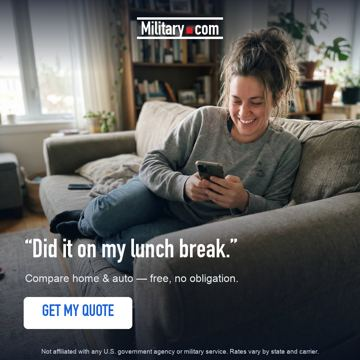
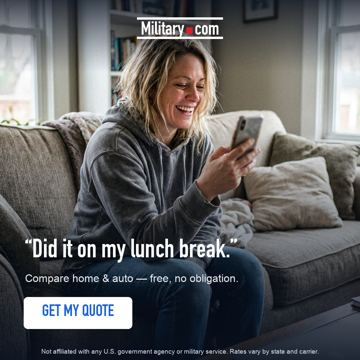
Military.com: add 6 audience-character creatives (USAA/Geico-style lifestyle)
New photo concepts at 1:1/4:5/9:16 — military family + children, newlywed,
military humor, member + dog, generational, just-joined. Tasteful everyday
service dress permitted per client direction; no rank insignia/patches/flags/
seals/carrier logos/%-claims. Gallery now 52 concepts / 152 assets.

diff --git a/clients/military-com/ad-library.html b/clients/military-com/ad-library.html
@@ -30,7 +30,7 @@ a{color:inherit;}
 <header>
   <div class="eyebrow">Creative Review · Go To War Strategy</div>
   <h1>Military.com — June Creative</h1>
-  <div class="sub">46 concepts · 134 assets · 1 video · 1:1 / 4:5 / 9:16 · brand templates + editorial photo + UGC · click any shot for full size</div>
+  <div class="sub">52 concepts · 152 assets · 1 video · 1:1 / 4:5 / 9:16 · brand templates + editorial photo + UGC · click any shot for full size</div>
 </header>
 <h2 class="grp">Brand Templates <span>20 concepts</span></h2>
 <div class="grid">
@@ -55,18 +55,24 @@ a{color:inherit;}
 <div class="card"><div class="hd"><span class="id">two_cars_one_quote</span><span class="meta"><span class="pill">cream</span> <span class="pill">Auto</span> <span class="pill">GET MY QUOTE</span></span></div><div class="hl">Two cars. one lower bill.</div><div class="shots"><figure class="shot 1x1"><a href="ad-library/templates/two_cars_one_quote_1x1.jpg" target="_blank"><img src="ad-library/templates/thumbs/two_cars_one_quote_1x1.jpg" loading="lazy" decoding="async" alt="two_cars_one_quote 1:1"/></a><figcaption>1:1</figcaption></figure><figure class="shot 4x5"><a href="ad-library/templates/two_cars_one_quote_4x5.jpg" target="_blank"><img src="ad-library/templates/thumbs/two_cars_one_quote_4x5.jpg" loading="lazy" decoding="async" alt="two_cars_one_quote 4:5"/></a><figcaption>4:5</figcaption></figure><figure class="shot 9x16"><a href="ad-library/templates/two_cars_one_quote_9x16.jpg" target="_blank"><img src="ad-library/templates/thumbs/two_cars_one_quote_9x16.jpg" loading="lazy" decoding="async" alt="two_cars_one_quote 9:16"/></a><figcaption>9:16</figcaption></figure></div></div>
 <div class="card"><div class="hd"><span class="id">va_loan_new_home</span><span class="meta"><span class="pill">blue</span> <span class="pill">Home</span> <span class="pill">GET MY QUOTE</span></span></div><div class="hl">Closing soon? lock your coverage.</div><div class="shots"><figure class="shot 1x1"><a href="ad-library/templates/va_loan_new_home_1x1.jpg" target="_blank"><img src="ad-library/templates/thumbs/va_loan_new_home_1x1.jpg" loading="lazy" decoding="async" alt="va_loan_new_home 1:1"/></a><figcaption>1:1</figcaption></figure><figure class="shot 4x5"><a href="ad-library/templates/va_loan_new_home_4x5.jpg" target="_blank"><img src="ad-library/templates/thumbs/va_loan_new_home_4x5.jpg" loading="lazy" decoding="async" alt="va_loan_new_home 4:5"/></a><figcaption>4:5</figcaption></figure><figure class="shot 9x16"><a href="ad-library/templates/va_loan_new_home_9x16.jpg" target="_blank"><img src="ad-library/templates/thumbs/va_loan_new_home_9x16.jpg" loading="lazy" decoding="async" alt="va_loan_new_home 9:16"/></a><figcaption>9:16</figcaption></figure></div></div>
 </div>
-<h2 class="grp">Photo / Editorial <span>14 concepts</span></h2>
+<h2 class="grp">Photo / Editorial <span>20 concepts</span></h2>
 <div class="grid">
 <div class="card"><div class="hd"><span class="id">deployment_return_keys</span><span class="meta"><span class="pill">navy</span> <span class="pill">Auto</span> <span class="pill">START YOUR COMPARISON</span></span></div><div class="hl">Back home. Time to fix what&#x27;s on autopay.</div><div class="shots"><figure class="shot 1x1"><a href="ad-library/photo/deployment_return_keys_1x1.jpg" target="_blank"><img src="ad-library/photo/thumbs/deployment_return_keys_1x1.jpg" loading="lazy" decoding="async" alt="deployment_return_keys 1:1"/></a><figcaption>1:1</figcaption></figure><figure class="shot 4x5"><a href="ad-library/photo/deployment_return_keys_4x5.jpg" target="_blank"><img src="ad-library/photo/thumbs/deployment_return_keys_4x5.jpg" loading="lazy" decoding="async" alt="deployment_return_keys 4:5"/></a><figcaption>4:5</figcaption></figure><figure class="shot 9x16"><a href="ad-library/photo/deployment_return_keys_9x16.jpg" target="_blank"><img src="ad-library/photo/thumbs/deployment_return_keys_9x16.jpg" loading="lazy" decoding="async" alt="deployment_return_keys 9:16"/></a><figcaption>9:16</figcaption></figure></div></div>
 <div class="card"><div class="hd"><span class="id">drive_confidence</span><span class="meta"><span class="pill">navy</span> <span class="pill">Auto</span> <span class="pill">GET MY QUOTE</span></span></div><div class="hl">Drive with confidence</div><div class="shots"><figure class="shot 1x1"><a href="ad-library/photo/drive_confidence_1x1.jpg" target="_blank"><img src="ad-library/photo/thumbs/drive_confidence_1x1.jpg" loading="lazy" decoding="async" alt="drive_confidence 1:1"/></a><figcaption>1:1</figcaption></figure></div></div>
 <div class="card"><div class="hd"><span class="id">first_home</span><span class="meta"><span class="pill">navy</span> <span class="pill">Home</span> <span class="pill">SEE YOUR RATE</span></span></div><div class="hl">Used your VA loan? Insure it for less.</div><div class="shots"><figure class="shot 1x1"><a href="ad-library/photo/first_home_1x1.jpg" target="_blank"><img src="ad-library/photo/thumbs/first_home_1x1.jpg" loading="lazy" decoding="async" alt="first_home 1:1"/></a><figcaption>1:1</figcaption></figure><figure class="shot 4x5"><a href="ad-library/photo/first_home_4x5.jpg" target="_blank"><img src="ad-library/photo/thumbs/first_home_4x5.jpg" loading="lazy" decoding="async" alt="first_home 4:5"/></a><figcaption>4:5</figcaption></figure><figure class="shot 9x16"><a href="ad-library/photo/first_home_9x16.jpg" target="_blank"><img src="ad-library/photo/thumbs/first_home_9x16.jpg" loading="lazy" decoding="async" alt="first_home 9:16"/></a><figcaption>9:16</figcaption></figure></div></div>
+<div class="card"><div class="hd"><span class="id">generational_military</span><span class="meta"><span class="pill">navy</span> <span class="pill">Home+Auto</span> <span class="pill">COMPARE FREE</span></span></div><div class="hl">Service runs in the family. Smart choices can too.</div><div class="shots"><figure class="shot 1x1"><a href="ad-library/photo/generational_military_1x1.jpg" target="_blank"><img src="ad-library/photo/thumbs/generational_military_1x1.jpg" loading="lazy" decoding="async" alt="generational_military 1:1"/></a><figcaption>1:1</figcaption></figure><figure class="shot 4x5"><a href="ad-library/photo/generational_military_4x5.jpg" target="_blank"><img src="ad-library/photo/thumbs/generational_military_4x5.jpg" loading="lazy" decoding="async" alt="generational_military 4:5"/></a><figcaption>4:5</figcaption></figure><figure class="shot 9x16"><a href="ad-library/photo/generational_military_9x16.jpg" target="_blank"><img src="ad-library/photo/thumbs/generational_military_9x16.jpg" loading="lazy" decoding="async" alt="generational_military 9:16"/></a><figcaption>9:16</figcaption></figure></div></div>
+<div class="card"><div class="hd"><span class="id">just_joined_military</span><span class="meta"><span class="pill">navy</span> <span class="pill">Auto</span> <span class="pill">SEE YOUR RATE</span></span></div><div class="hl">New mission. New car. Smarter coverage.</div><div class="shots"><figure class="shot 1x1"><a href="ad-library/photo/just_joined_military_1x1.jpg" target="_blank"><img src="ad-library/photo/thumbs/just_joined_military_1x1.jpg" loading="lazy" decoding="async" alt="just_joined_military 1:1"/></a><figcaption>1:1</figcaption></figure><figure class="shot 4x5"><a href="ad-library/photo/just_joined_military_4x5.jpg" target="_blank"><img src="ad-library/photo/thumbs/just_joined_military_4x5.jpg" loading="lazy" decoding="async" alt="just_joined_military 4:5"/></a><figcaption>4:5</figcaption></figure><figure class="shot 9x16"><a href="ad-library/photo/just_joined_military_9x16.jpg" target="_blank"><img src="ad-library/photo/thumbs/just_joined_military_9x16.jpg" loading="lazy" decoding="async" alt="just_joined_military 9:16"/></a><figcaption>9:16</figcaption></figure></div></div>
 <div class="card"><div class="hd"><span class="id">lifestyle_backyard_grill</span><span class="meta"><span class="pill">navy</span> <span class="pill">Home</span> <span class="pill">SEE YOUR RATE</span></span></div><div class="hl">You built this. Protect it for less.</div><div class="shots"><figure class="shot 1x1"><a href="ad-library/photo/lifestyle_backyard_grill_1x1.jpg" target="_blank"><img src="ad-library/photo/thumbs/lifestyle_backyard_grill_1x1.jpg" loading="lazy" decoding="async" alt="lifestyle_backyard_grill 1:1"/></a><figcaption>1:1</figcaption></figure><figure class="shot 4x5"><a href="ad-library/photo/lifestyle_backyard_grill_4x5.jpg" target="_blank"><img src="ad-library/photo/thumbs/lifestyle_backyard_grill_4x5.jpg" loading="lazy" decoding="async" alt="lifestyle_backyard_grill 4:5"/></a><figcaption>4:5</figcaption></figure><figure class="shot 9x16"><a href="ad-library/photo/lifestyle_backyard_grill_9x16.jpg" target="_blank"><img src="ad-library/photo/thumbs/lifestyle_backyard_grill_9x16.jpg" loading="lazy" decoding="async" alt="lifestyle_backyard_grill 9:16"/></a><figcaption>9:16</figcaption></figure></div></div>
 <div class="card"><div class="hd"><span class="id">lifestyle_dog_roadtrip_truck</span><span class="meta"><span class="pill">navy</span> <span class="pill">Auto</span> <span class="pill">CHECK YOUR RATE</span></span></div><div class="hl">New orders. New rate to match.</div><div class="shots"><figure class="shot 1x1"><a href="ad-library/photo/lifestyle_dog_roadtrip_truck_1x1.jpg" target="_blank"><img src="ad-library/photo/thumbs/lifestyle_dog_roadtrip_truck_1x1.jpg" loading="lazy" decoding="async" alt="lifestyle_dog_roadtrip_truck 1:1"/></a><figcaption>1:1</figcaption></figure><figure class="shot 4x5"><a href="ad-library/photo/lifestyle_dog_roadtrip_truck_4x5.jpg" target="_blank"><img src="ad-library/photo/thumbs/lifestyle_dog_roadtrip_truck_4x5.jpg" loading="lazy" decoding="async" alt="lifestyle_dog_roadtrip_truck 4:5"/></a><figcaption>4:5</figcaption></figure><figure class="shot 9x16"><a href="ad-library/photo/lifestyle_dog_roadtrip_truck_9x16.jpg" target="_blank"><img src="ad-library/photo/thumbs/lifestyle_dog_roadtrip_truck_9x16.jpg" loading="lazy" decoding="async" alt="lifestyle_dog_roadtrip_truck 9:16"/></a><figcaption>9:16</figcaption></figure></div></div>
 <div class="card"><div class="hd"><span class="id">lifestyle_first_apartment_renter</span><span class="meta"><span class="pill">navy</span> <span class="pill">Renters</span> <span class="pill">SEE YOUR RATE</span></span></div><div class="hl">First place off base? Cover it for less.</div><div class="shots"><figure class="shot 1x1"><a href="ad-library/photo/lifestyle_first_apartment_renter_1x1.jpg" target="_blank"><img src="ad-library/photo/thumbs/lifestyle_first_apartment_renter_1x1.jpg" loading="lazy" decoding="async" alt="lifestyle_first_apartment_renter 1:1"/></a><figcaption>1:1</figcaption></figure><figure class="shot 4x5"><a href="ad-library/photo/lifestyle_first_apartment_renter_4x5.jpg" target="_blank"><img src="ad-library/photo/thumbs/lifestyle_first_apartment_renter_4x5.jpg" loading="lazy" decoding="async" alt="lifestyle_first_apartment_renter 4:5"/></a><figcaption>4:5</figcaption></figure><figure class="shot 9x16"><a href="ad-library/photo/lifestyle_first_apartment_renter_9x16.jpg" target="_blank"><img src="ad-library/photo/thumbs/lifestyle_first_apartment_renter_9x16.jpg" loading="lazy" decoding="async" alt="lifestyle_first_apartment_renter 9:16"/></a><figcaption>9:16</figcaption></figure></div></div>
 <div class="card"><div class="hd"><span class="id">lifestyle_motorcycle_garage</span><span class="meta"><span class="pill">navy</span> <span class="pill">Motorcycle</span> <span class="pill">GET MY QUOTE</span></span></div><div class="hl">Ride season&#x27;s here. Re-shop the bike too.</div><div class="shots"><figure class="shot 1x1"><a href="ad-library/photo/lifestyle_motorcycle_garage_1x1.jpg" target="_blank"><img src="ad-library/photo/thumbs/lifestyle_motorcycle_garage_1x1.jpg" loading="lazy" decoding="async" alt="lifestyle_motorcycle_garage 1:1"/></a><figcaption>1:1</figcaption></figure><figure class="shot 4x5"><a href="ad-library/photo/lifestyle_motorcycle_garage_4x5.jpg" target="_blank"><img src="ad-library/photo/thumbs/lifestyle_motorcycle_garage_4x5.jpg" loading="lazy" decoding="async" alt="lifestyle_motorcycle_garage 4:5"/></a><figcaption>4:5</figcaption></figure><figure class="shot 9x16"><a href="ad-library/photo/lifestyle_motorcycle_garage_9x16.jpg" target="_blank"><img src="ad-library/photo/thumbs/lifestyle_motorcycle_garage_9x16.jpg" loading="lazy" decoding="async" alt="lifestyle_motorcycle_garage 9:16"/></a><figcaption>9:16</figcaption></figure></div></div>
 <div class="card"><div class="hd"><span class="id">lifestyle_porch_coffee_morning</span><span class="meta"><span class="pill">navy</span> <span class="pill">Home+Auto</span> <span class="pill">GET MY QUOTE</span></span></div><div class="hl">Five minutes, before the kids woke up.</div><div class="shots"><figure class="shot 1x1"><a href="ad-library/photo/lifestyle_porch_coffee_morning_1x1.jpg" target="_blank"><img src="ad-library/photo/thumbs/lifestyle_porch_coffee_morning_1x1.jpg" loading="lazy" decoding="async" alt="lifestyle_porch_coffee_morning 1:1"/></a><figcaption>1:1</figcaption></figure><figure class="shot 4x5"><a href="ad-library/photo/lifestyle_porch_coffee_morning_4x5.jpg" target="_blank"><img src="ad-library/photo/thumbs/lifestyle_porch_coffee_morning_4x5.jpg" loading="lazy" decoding="async" alt="lifestyle_porch_coffee_morning 4:5"/></a><figcaption>4:5</figcaption></figure><figure class="shot 9x16"><a href="ad-library/photo/lifestyle_porch_coffee_morning_9x16.jpg" target="_blank"><img src="ad-library/photo/thumbs/lifestyle_porch_coffee_morning_9x16.jpg" loading="lazy" decoding="async" alt="lifestyle_porch_coffee_morning 9:16"/></a><figcaption>9:16</figcaption></figure></div></div>
 <div class="card"><div class="hd"><span class="id">loyalty_tax_porch_couple</span><span class="meta"><span class="pill">navy</span> <span class="pill">Home+Auto</span> <span class="pill">RUN THE NUMBERS</span></span></div><div class="hl">Same insurer 10 years? You&#x27;re paying the loyalty tax.</div><div class="shots"><figure class="shot 1x1"><a href="ad-library/photo/loyalty_tax_porch_couple_1x1.jpg" target="_blank"><img src="ad-library/photo/thumbs/loyalty_tax_porch_couple_1x1.jpg" loading="lazy" decoding="async" alt="loyalty_tax_porch_couple 1:1"/></a><figcaption>1:1</figcaption></figure><figure class="shot 4x5"><a href="ad-library/photo/loyalty_tax_porch_couple_4x5.jpg" target="_blank"><img src="ad-library/photo/thumbs/loyalty_tax_porch_couple_4x5.jpg" loading="lazy" decoding="async" alt="loyalty_tax_porch_couple 4:5"/></a><figcaption>4:5</figcaption></figure><figure class="shot 9x16"><a href="ad-library/photo/loyalty_tax_porch_couple_9x16.jpg" target="_blank"><img src="ad-library/photo/thumbs/loyalty_tax_porch_couple_9x16.jpg" loading="lazy" decoding="async" alt="loyalty_tax_porch_couple 9:16"/></a><figcaption>9:16</figcaption></figure></div></div>
+<div class="card"><div class="hd"><span class="id">military_dog</span><span class="meta"><span class="pill">navy</span> <span class="pill">Auto</span> <span class="pill">CHECK YOUR RATE</span></span></div><div class="hl">Loyal to your mission. Loyal to your savings.</div><div class="shots"><figure class="shot 1x1"><a href="ad-library/photo/military_dog_1x1.jpg" target="_blank"><img src="ad-library/photo/thumbs/military_dog_1x1.jpg" loading="lazy" decoding="async" alt="military_dog 1:1"/></a><figcaption>1:1</figcaption></figure><figure class="shot 4x5"><a href="ad-library/photo/military_dog_4x5.jpg" target="_blank"><img src="ad-library/photo/thumbs/military_dog_4x5.jpg" loading="lazy" decoding="async" alt="military_dog 4:5"/></a><figcaption>4:5</figcaption></figure><figure class="shot 9x16"><a href="ad-library/photo/military_dog_9x16.jpg" target="_blank"><img src="ad-library/photo/thumbs/military_dog_9x16.jpg" loading="lazy" decoding="async" alt="military_dog 9:16"/></a><figcaption>9:16</figcaption></figure></div></div>
+<div class="card"><div class="hd"><span class="id">military_family_children</span><span class="meta"><span class="pill">navy</span> <span class="pill">Auto</span> <span class="pill">SEE YOUR RATE</span></span></div><div class="hl">You served. Now you can save.</div><div class="shots"><figure class="shot 1x1"><a href="ad-library/photo/military_family_children_1x1.jpg" target="_blank"><img src="ad-library/photo/thumbs/military_family_children_1x1.jpg" loading="lazy" decoding="async" alt="military_family_children 1:1"/></a><figcaption>1:1</figcaption></figure><figure class="shot 4x5"><a href="ad-library/photo/military_family_children_4x5.jpg" target="_blank"><img src="ad-library/photo/thumbs/military_family_children_4x5.jpg" loading="lazy" decoding="async" alt="military_family_children 4:5"/></a><figcaption>4:5</figcaption></figure><figure class="shot 9x16"><a href="ad-library/photo/military_family_children_9x16.jpg" target="_blank"><img src="ad-library/photo/thumbs/military_family_children_9x16.jpg" loading="lazy" decoding="async" alt="military_family_children 9:16"/></a><figcaption>9:16</figcaption></figure></div></div>
+<div class="card"><div class="hd"><span class="id">military_humor</span><span class="meta"><span class="pill">navy</span> <span class="pill">Auto</span> <span class="pill">RUN THE NUMBERS</span></span></div><div class="hl">You triple-check your gear. Why not your insurance?</div><div class="shots"><figure class="shot 1x1"><a href="ad-library/photo/military_humor_1x1.jpg" target="_blank"><img src="ad-library/photo/thumbs/military_humor_1x1.jpg" loading="lazy" decoding="async" alt="military_humor 1:1"/></a><figcaption>1:1</figcaption></figure><figure class="shot 4x5"><a href="ad-library/photo/military_humor_4x5.jpg" target="_blank"><img src="ad-library/photo/thumbs/military_humor_4x5.jpg" loading="lazy" decoding="async" alt="military_humor 4:5"/></a><figcaption>4:5</figcaption></figure><figure class="shot 9x16"><a href="ad-library/photo/military_humor_9x16.jpg" target="_blank"><img src="ad-library/photo/thumbs/military_humor_9x16.jpg" loading="lazy" decoding="async" alt="military_humor 9:16"/></a><figcaption>9:16</figcaption></figure></div></div>
 <div class="card"><div class="hd"><span class="id">moving_day</span><span class="meta"><span class="pill">navy</span> <span class="pill">Auto</span> <span class="pill">SEE YOUR RATE</span></span></div><div class="hl">New base. new rate.</div><div class="shots"><figure class="shot 1x1"><a href="ad-library/photo/moving_day_1x1.jpg" target="_blank"><img src="ad-library/photo/thumbs/moving_day_1x1.jpg" loading="lazy" decoding="async" alt="moving_day 1:1"/></a><figcaption>1:1</figcaption></figure></div></div>
+<div class="card"><div class="hd"><span class="id">newlywed_military</span><span class="meta"><span class="pill">navy</span> <span class="pill">Auto</span> <span class="pill">START YOUR COMPARISON</span></span></div><div class="hl">Starting a new chapter? Start saving too.</div><div class="shots"><figure class="shot 1x1"><a href="ad-library/photo/newlywed_military_1x1.jpg" target="_blank"><img src="ad-library/photo/thumbs/newlywed_military_1x1.jpg" loading="lazy" decoding="async" alt="newlywed_military 1:1"/></a><figcaption>1:1</figcaption></figure><figure class="shot 4x5"><a href="ad-library/photo/newlywed_military_4x5.jpg" target="_blank"><img src="ad-library/photo/thumbs/newlywed_military_4x5.jpg" loading="lazy" decoding="async" alt="newlywed_military 4:5"/></a><figcaption>4:5</figcaption></figure><figure class="shot 9x16"><a href="ad-library/photo/newlywed_military_9x16.jpg" target="_blank"><img src="ad-library/photo/thumbs/newlywed_military_9x16.jpg" loading="lazy" decoding="async" alt="newlywed_military 9:16"/></a><figcaption>9:16</figcaption></figure></div></div>
 <div class="card"><div class="hd"><span class="id">pcs_driveway_unpacked</span><span class="meta"><span class="pill">navy</span> <span class="pill">Auto</span> <span class="pill">CHECK YOUR RATE</span></span></div><div class="hl">New base, new ZIP. Your rate didn&#x27;t move with you.</div><div class="shots"><figure class="shot 1x1"><a href="ad-library/photo/pcs_driveway_unpacked_1x1.jpg" target="_blank"><img src="ad-library/photo/thumbs/pcs_driveway_unpacked_1x1.jpg" loading="lazy" decoding="async" alt="pcs_driveway_unpacked 1:1"/></a><figcaption>1:1</figcaption></figure><figure class="shot 4x5"><a href="ad-library/photo/pcs_driveway_unpacked_4x5.jpg" target="_blank"><img src="ad-library/photo/thumbs/pcs_driveway_unpacked_4x5.jpg" loading="lazy" decoding="async" alt="pcs_driveway_unpacked 4:5"/></a><figcaption>4:5</figcaption></figure><figure class="shot 9x16"><a href="ad-library/photo/pcs_driveway_unpacked_9x16.jpg" target="_blank"><img src="ad-library/photo/thumbs/pcs_driveway_unpacked_9x16.jpg" loading="lazy" decoding="async" alt="pcs_driveway_unpacked 9:16"/></a><figcaption>9:16</figcaption></figure></div></div>
 <div class="card"><div class="hd"><span class="id">retiree_garage</span><span class="meta"><span class="pill">navy</span> <span class="pill">Auto</span> <span class="pill">COMPARE FREE</span></span></div><div class="hl">20 years in. Time for a better rate.</div><div class="shots"><figure class="shot 1x1"><a href="ad-library/photo/retiree_garage_1x1.jpg" target="_blank"><img src="ad-library/photo/thumbs/retiree_garage_1x1.jpg" loading="lazy" decoding="async" alt="retiree_garage 1:1"/></a><figcaption>1:1</figcaption></figure><figure class="shot 4x5"><a href="ad-library/photo/retiree_garage_4x5.jpg" target="_blank"><img src="ad-library/photo/thumbs/retiree_garage_4x5.jpg" loading="lazy" decoding="async" alt="retiree_garage 4:5"/></a><figcaption>4:5</figcaption></figure><figure class="shot 9x16"><a href="ad-library/photo/retiree_garage_9x16.jpg" target="_blank"><img src="ad-library/photo/thumbs/retiree_garage_9x16.jpg" loading="lazy" decoding="async" alt="retiree_garage 9:16"/></a><figcaption>9:16</figcaption></figure></div></div>
 <div class="card"><div class="hd"><span class="id">separation_first_civilian_car</span><span class="meta"><span class="pill">navy</span> <span class="pill">Auto</span> <span class="pill">SEE YOUR RATE</span></span></div><div class="hl">New chapter. New rate you now qualify for.</div><div class="shots"><figure class="shot 1x1"><a href="ad-library/photo/separation_first_civilian_car_1x1.jpg" target="_blank"><img src="ad-library/photo/thumbs/separation_first_civilian_car_1x1.jpg" loading="lazy" decoding="async" alt="separation_first_civilian_car 1:1"/></a><figcaption>1:1</figcaption></figure><figure class="shot 4x5"><a href="ad-library/photo/separation_first_civilian_car_4x5.jpg" target="_blank"><img src="ad-library/photo/thumbs/separation_first_civilian_car_4x5.jpg" loading="lazy" decoding="async" alt="separation_first_civilian_car 4:5"/></a><figcaption>4:5</figcaption></figure><figure class="shot 9x16"><a href="ad-library/photo/separation_first_civilian_car_9x16.jpg" target="_blank"><img src="ad-library/photo/thumbs/separation_first_civilian_car_9x16.jpg" loading="lazy" decoding="async" alt="separation_first_civilian_car 9:16"/></a><figcaption>9:16</figcaption></figure></div></div>
@@ -88,5 +94,5 @@ a{color:inherit;}
 <div class="card"><div class="hd"><span class="id">ugc_young_member_loyalty</span><span class="meta"><span class="pill">navy</span> <span class="pill">Auto</span> <span class="pill">CHECK YOUR RATE</span></span></div><div class="hl">Had the same policy since basic. Big mistake.</div><div class="shots"><figure class="shot 1x1"><a href="ad-library/ugc/ugc_young_member_loyalty_1x1.jpg" target="_blank"><img src="ad-library/ugc/thumbs/ugc_young_member_loyalty_1x1.jpg" loading="lazy" decoding="async" alt="ugc_young_member_loyalty 1:1"/></a><figcaption>1:1</figcaption></figure><figure class="shot 4x5"><a href="ad-library/ugc/ugc_young_member_loyalty_4x5.jpg" target="_blank"><img src="ad-library/ugc/thumbs/ugc_young_member_loyalty_4x5.jpg" loading="lazy" decoding="async" alt="ugc_young_member_loyalty 4:5"/></a><figcaption>4:5</figcaption></figure><figure class="shot 9x16"><a href="ad-library/ugc/ugc_young_member_loyalty_9x16.jpg" target="_blank"><img src="ad-library/ugc/thumbs/ugc_young_member_loyalty_9x16.jpg" loading="lazy" decoding="async" alt="ugc_young_member_loyalty 9:16"/></a><figcaption>9:16</figcaption></figure></div></div>
 </div>
 
-<footer>Generated by the creative engine (nano banana + Veo). Compliance: no uniforms/flags/insignia · no carrier logos · no %-claims in hooks. · <a href="index.html">Back to Military.com</a></footer>
+<footer>Generated by the creative engine (nano banana + Veo). Compliance: brand-template + editorial = no uniforms/flags/insignia · audience-character = tasteful everyday service dress only (no rank insignia/patches/medals/flags/seals) · no carrier logos · no %-claims in hooks · no implied govt affiliation. · <a href="index.html">Back to Military.com</a></footer>
 </body></html>